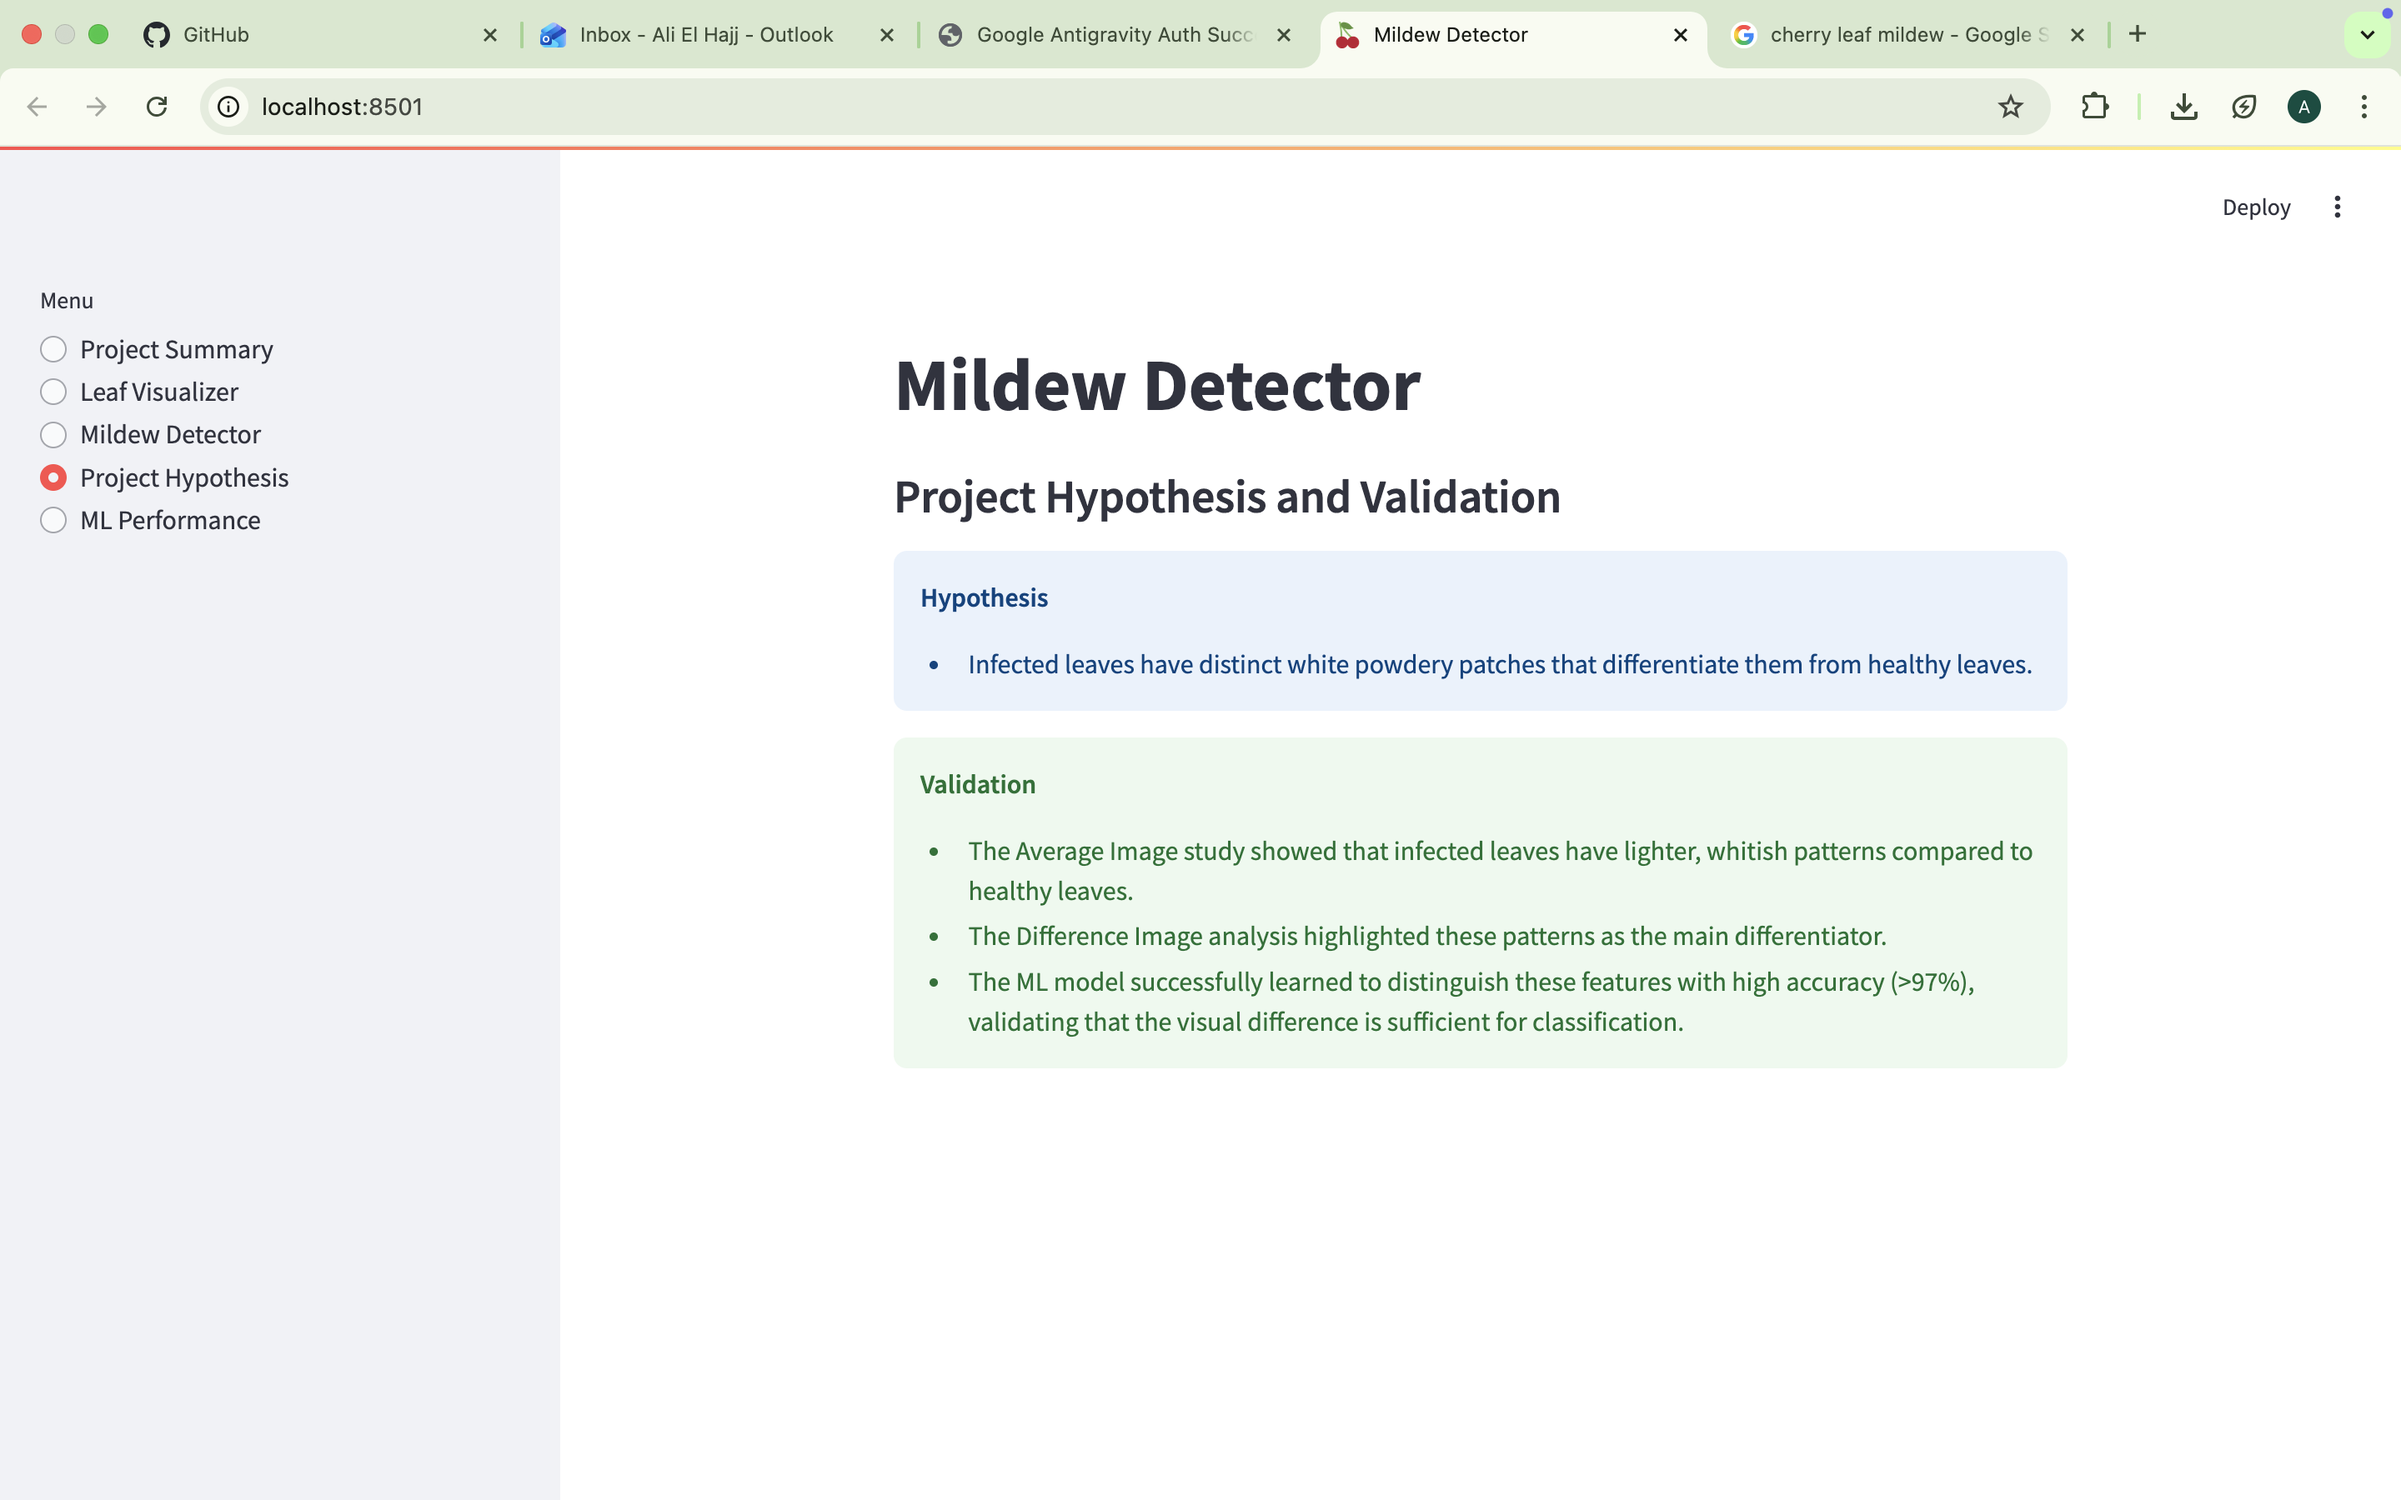
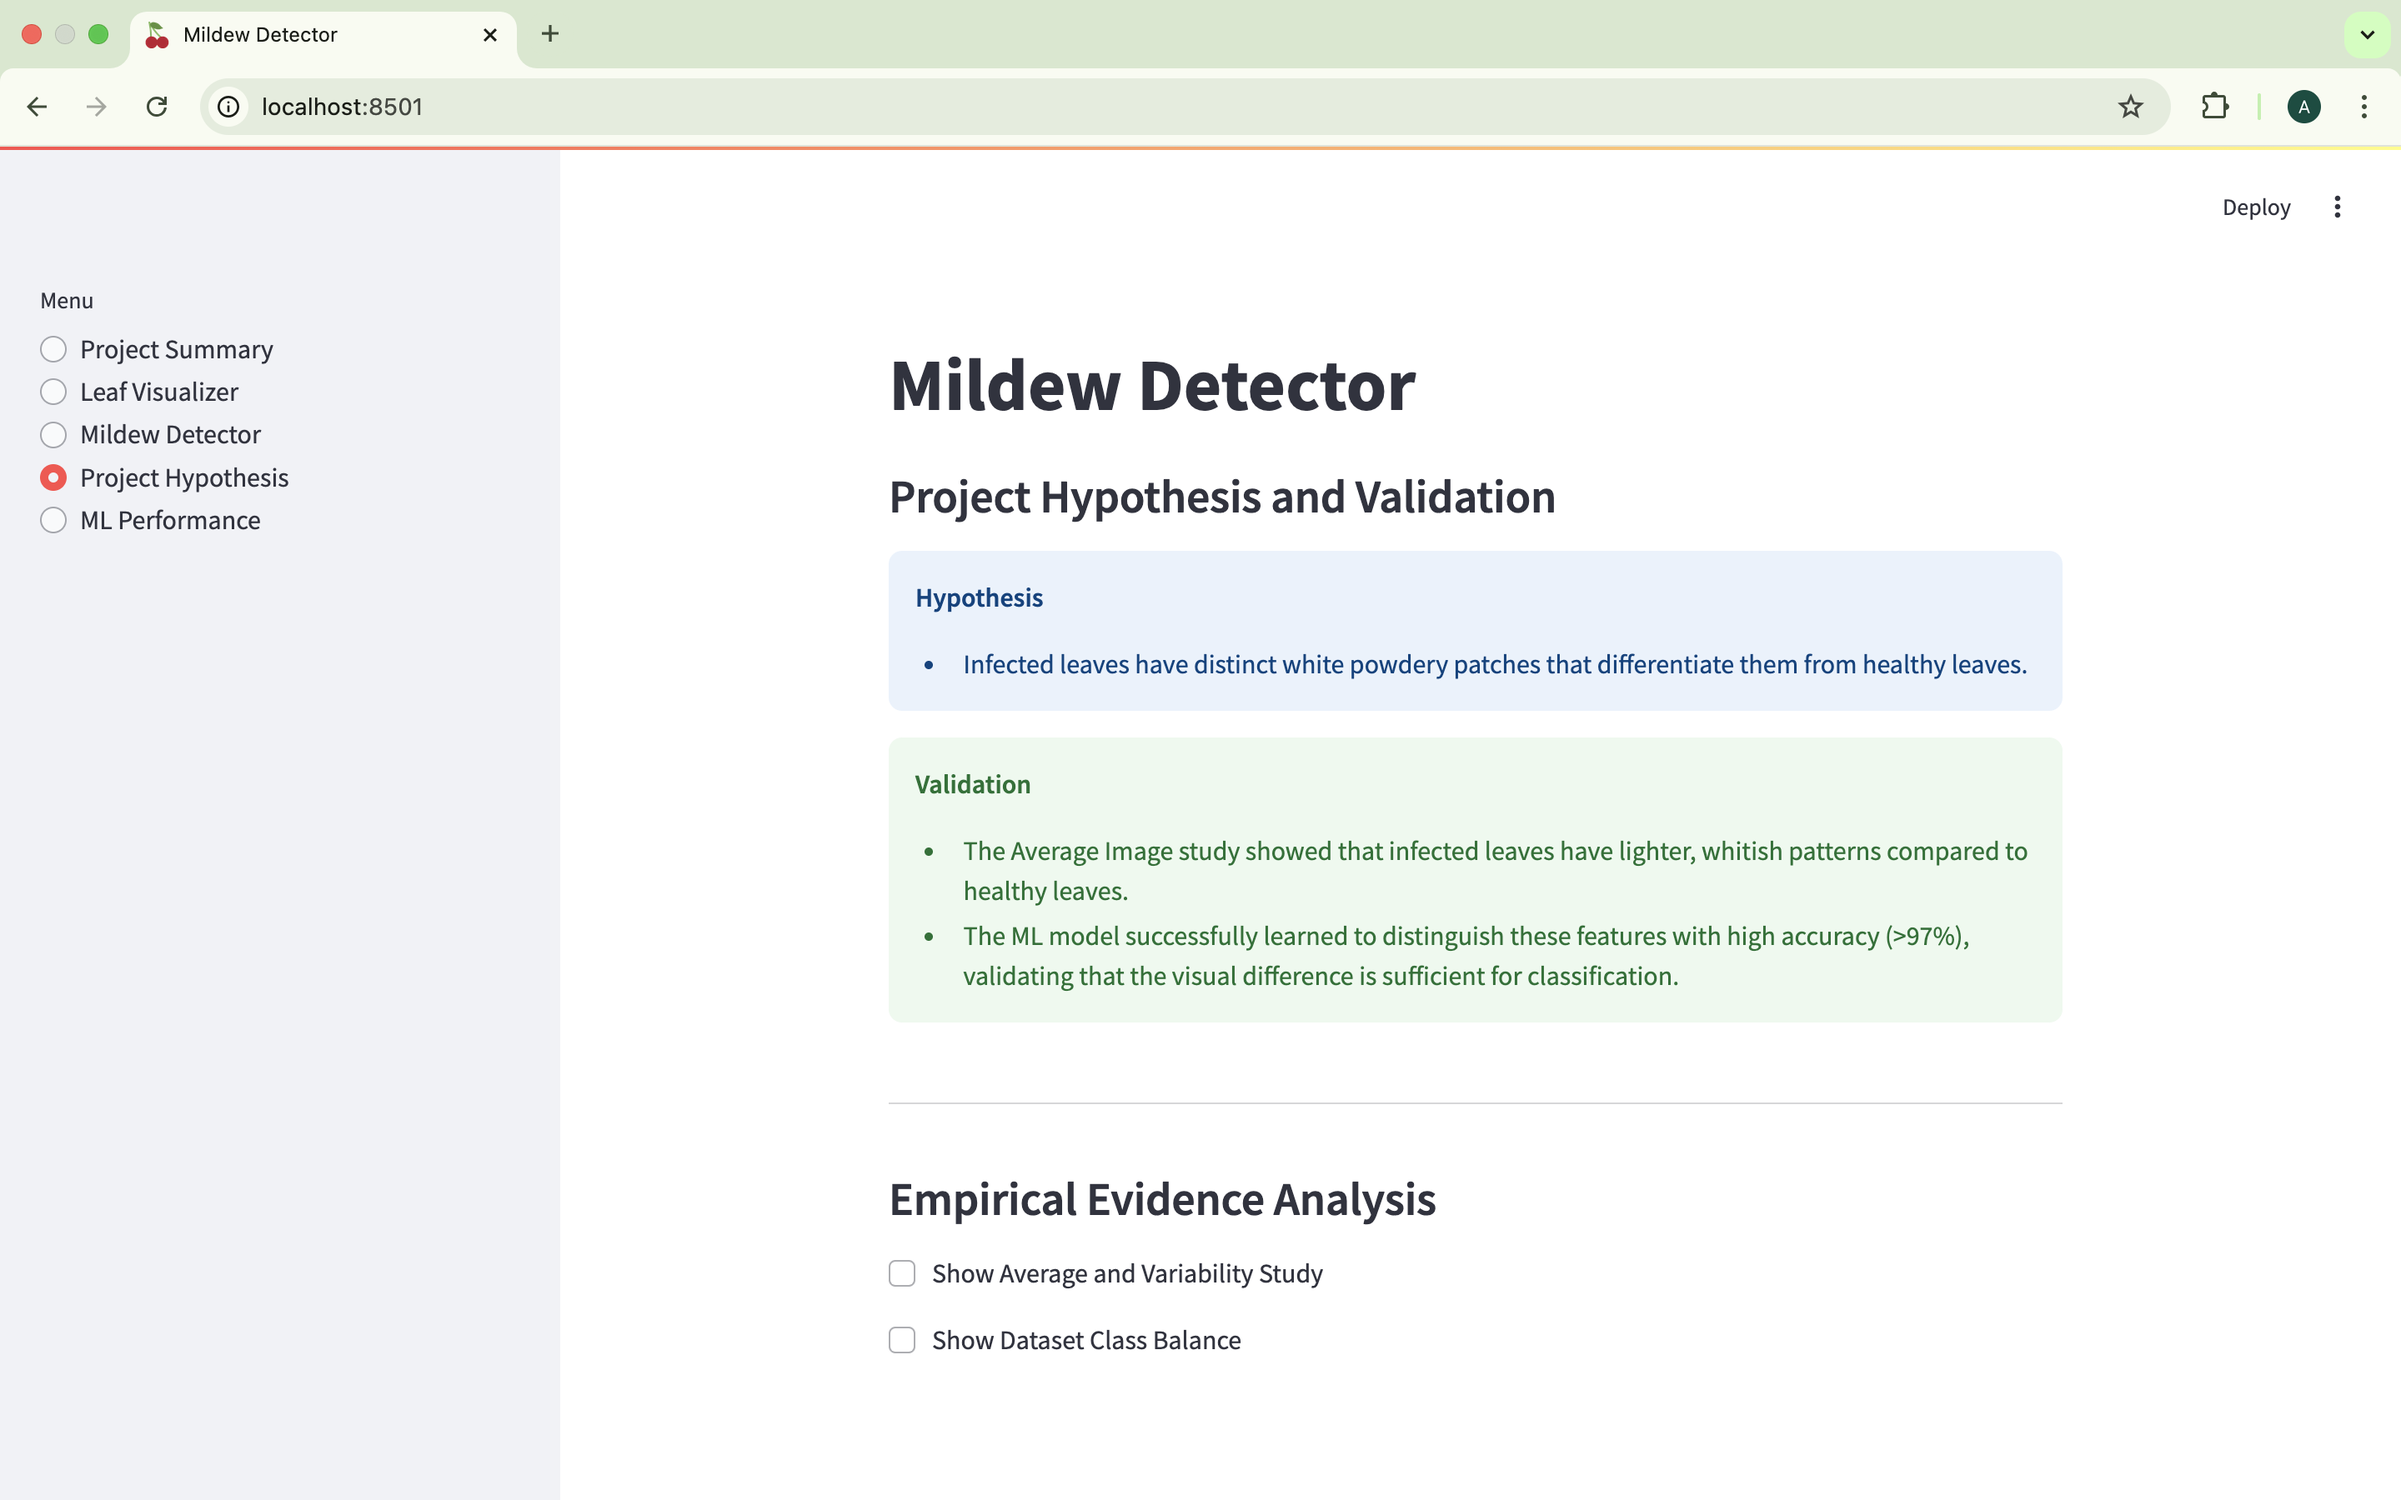
add Empirical Evidence Analysis

diff --git a/app_pages/page_project_hypothesis.py b/app_pages/page_project_hypothesis.py
@@ -25,3 +25,14 @@ def page_project_hypothesis_body():
             f"The visual analysis confirms that infected leaves display whitish powdery patches "
             f"and higher texture variability, which are key indicators the model uses for classification."
         )
+
+    if st.checkbox("Show Dataset Class Balance"):
+        st.write("### Dataset Class Balance")
+        st.info(
+            f"A balanced dataset is crucial for training a reliable model. "
+            f"It ensures the model learns to identify both classes with equal precision."
+        )
+        # Class counts verified from data directory
+        data = {"Healthy": 2104, "Powdery Mildew": 2104}
+        st.bar_chart(data)
+        st.write(f"The dataset contains **2,104** images of healthy leaves and **2,104** images of infected leaves, representing a perfect 50/50 balance.")

diff --git a/README.md b/README.md
@@ -138,8 +138,9 @@ The Project Hypothesis page provides scientific context for the project, explain
 
 **Hypothesis Statement** - The page clearly states the project's core hypothesis: "Infected leaves have distinct white powdery patches that differentiate them from healthy leaves." This hypothesis is grounded in botanical knowledge about powdery mildew disease and its visual manifestation on plant tissue.
 
-**Empirical Evidence Analysis** - The page includes an interactive section where users can view the following study:
+**Empirical Evidence Analysis** - The page includes an interactive section where users can view the following studies:
 1. **Average and Variability Study** - Displays the average image and variability (standard deviation) for both healthy and powdery mildew-infected leaves. It shows that healthy leaves have a consistent green structure, while infected leaves display whitish patches and higher texture variability.
+2. **Dataset Class Balance** - A bar chart showing the distribution of images across both categories. This confirms the model was trained on a perfectly balanced dataset (2,104 images per class), supporting the reliability of the classification results.
 
 **Validation Methodology** - The hypothesis was validated through multiple approaches:
 
